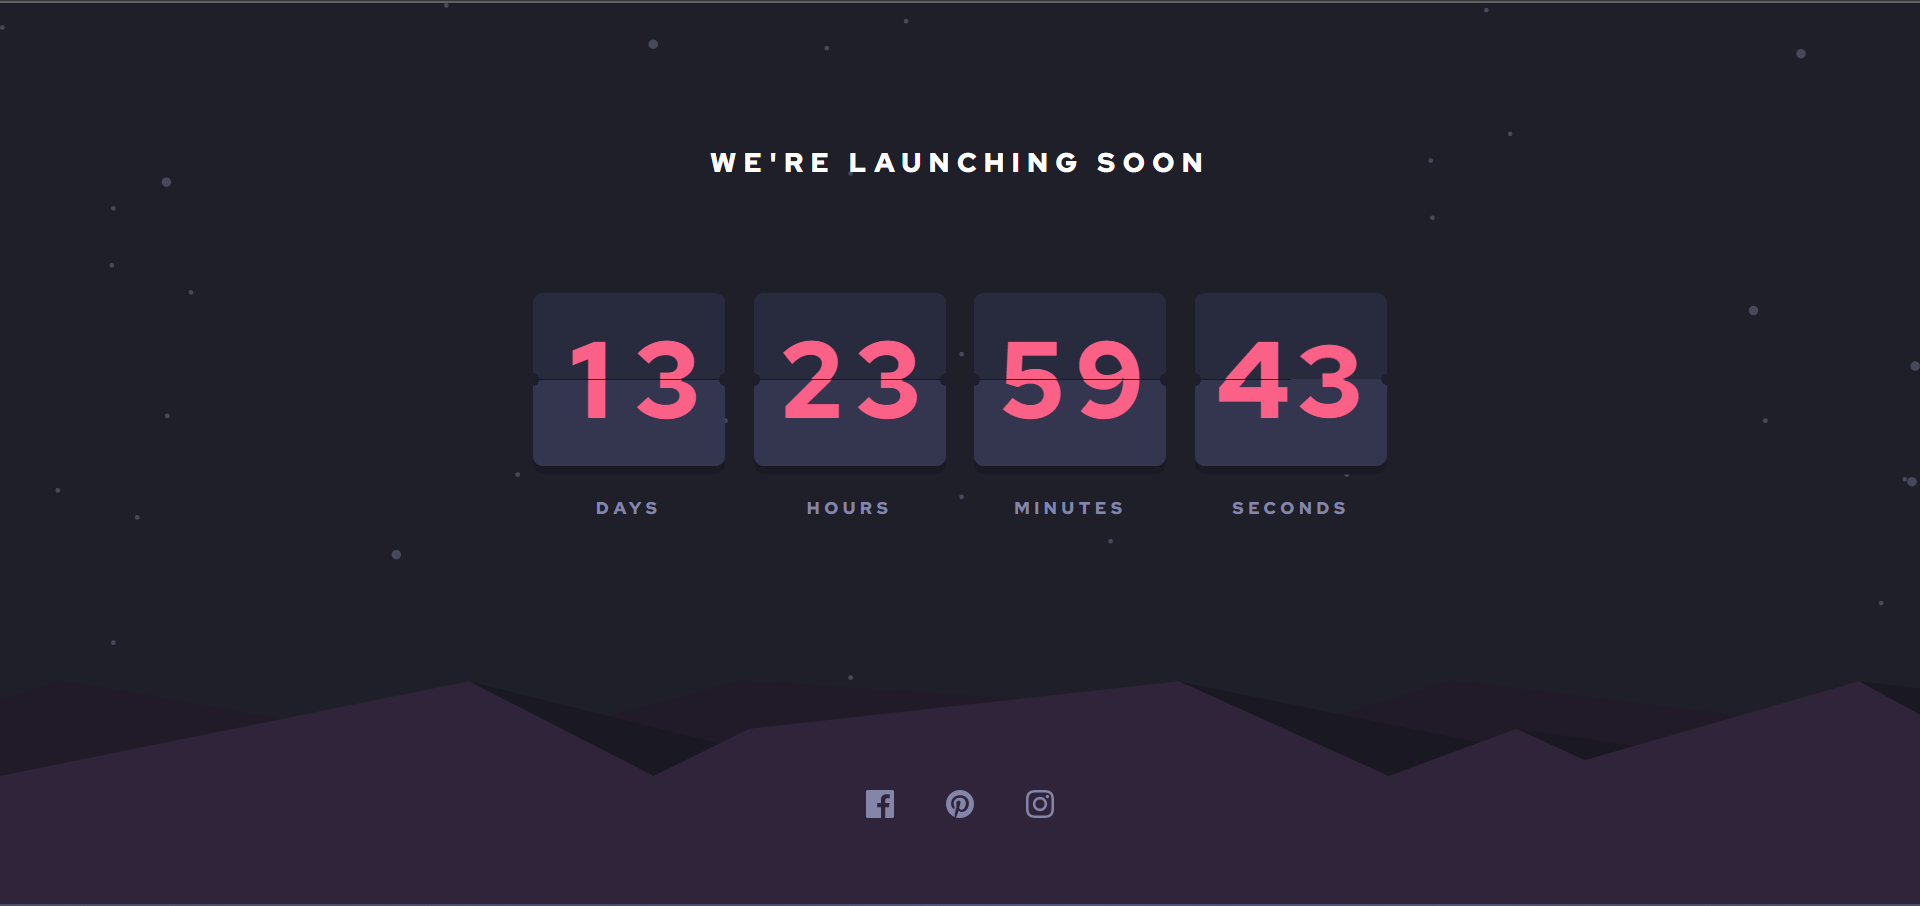
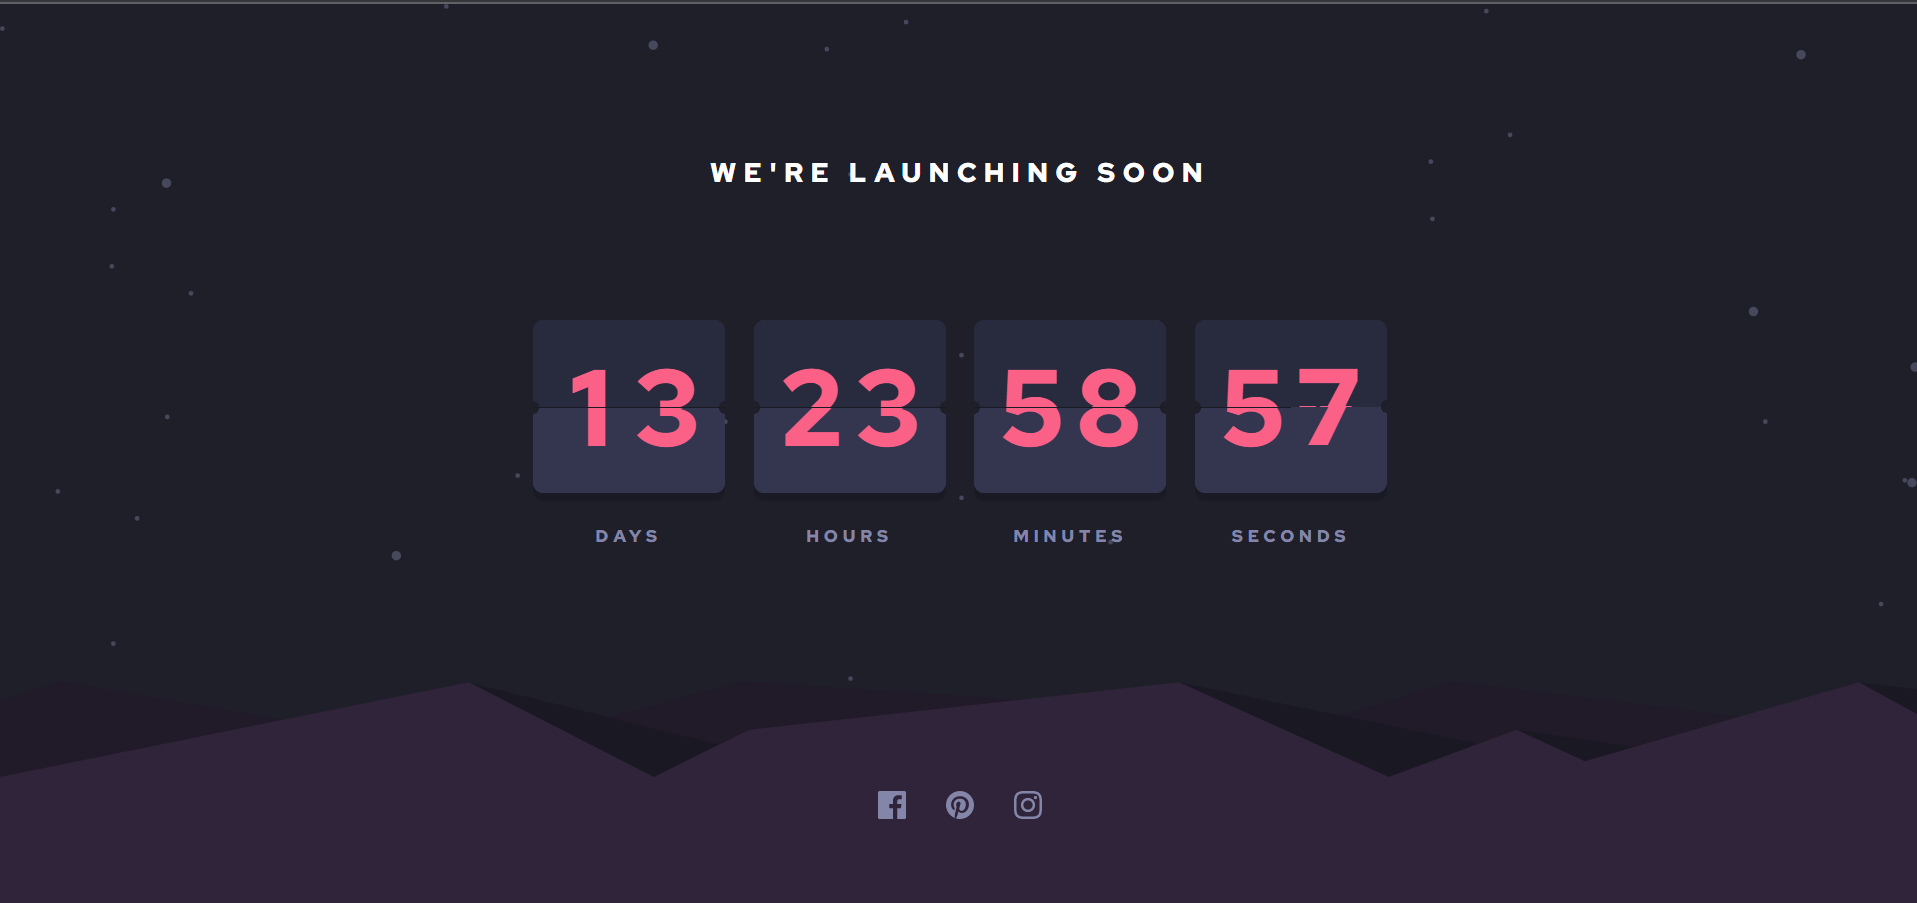
Fix design

diff --git a/style.css b/style.css
@@ -37,7 +37,7 @@ main {
 h1 {
   font-size: 2rem;
   text-align: center;
-  margin-top: -1rem;
+  margin-top: -0.5rem;
 }
 
 h1,
@@ -86,7 +86,7 @@ h1,
 .countdown-container {
   display: flex;
   justify-content: center;
-  margin-top: 6.5em;
+  margin-top: 7.5em;
   gap: 1.5rem;
 }
 
@@ -298,7 +298,7 @@ h1,
 }
 
 .text {
-  font-size: 1.25rem;
+  font-size: 1.3rem;
   margin-top: 20px;
   color: var(--grayish-blue);
   width: 100%;
@@ -317,7 +317,7 @@ h1,
 }
 
 .social-icon {
-  margin: 20px;
+  margin: 20px 15px;
 }
 
 .social-icon path {
